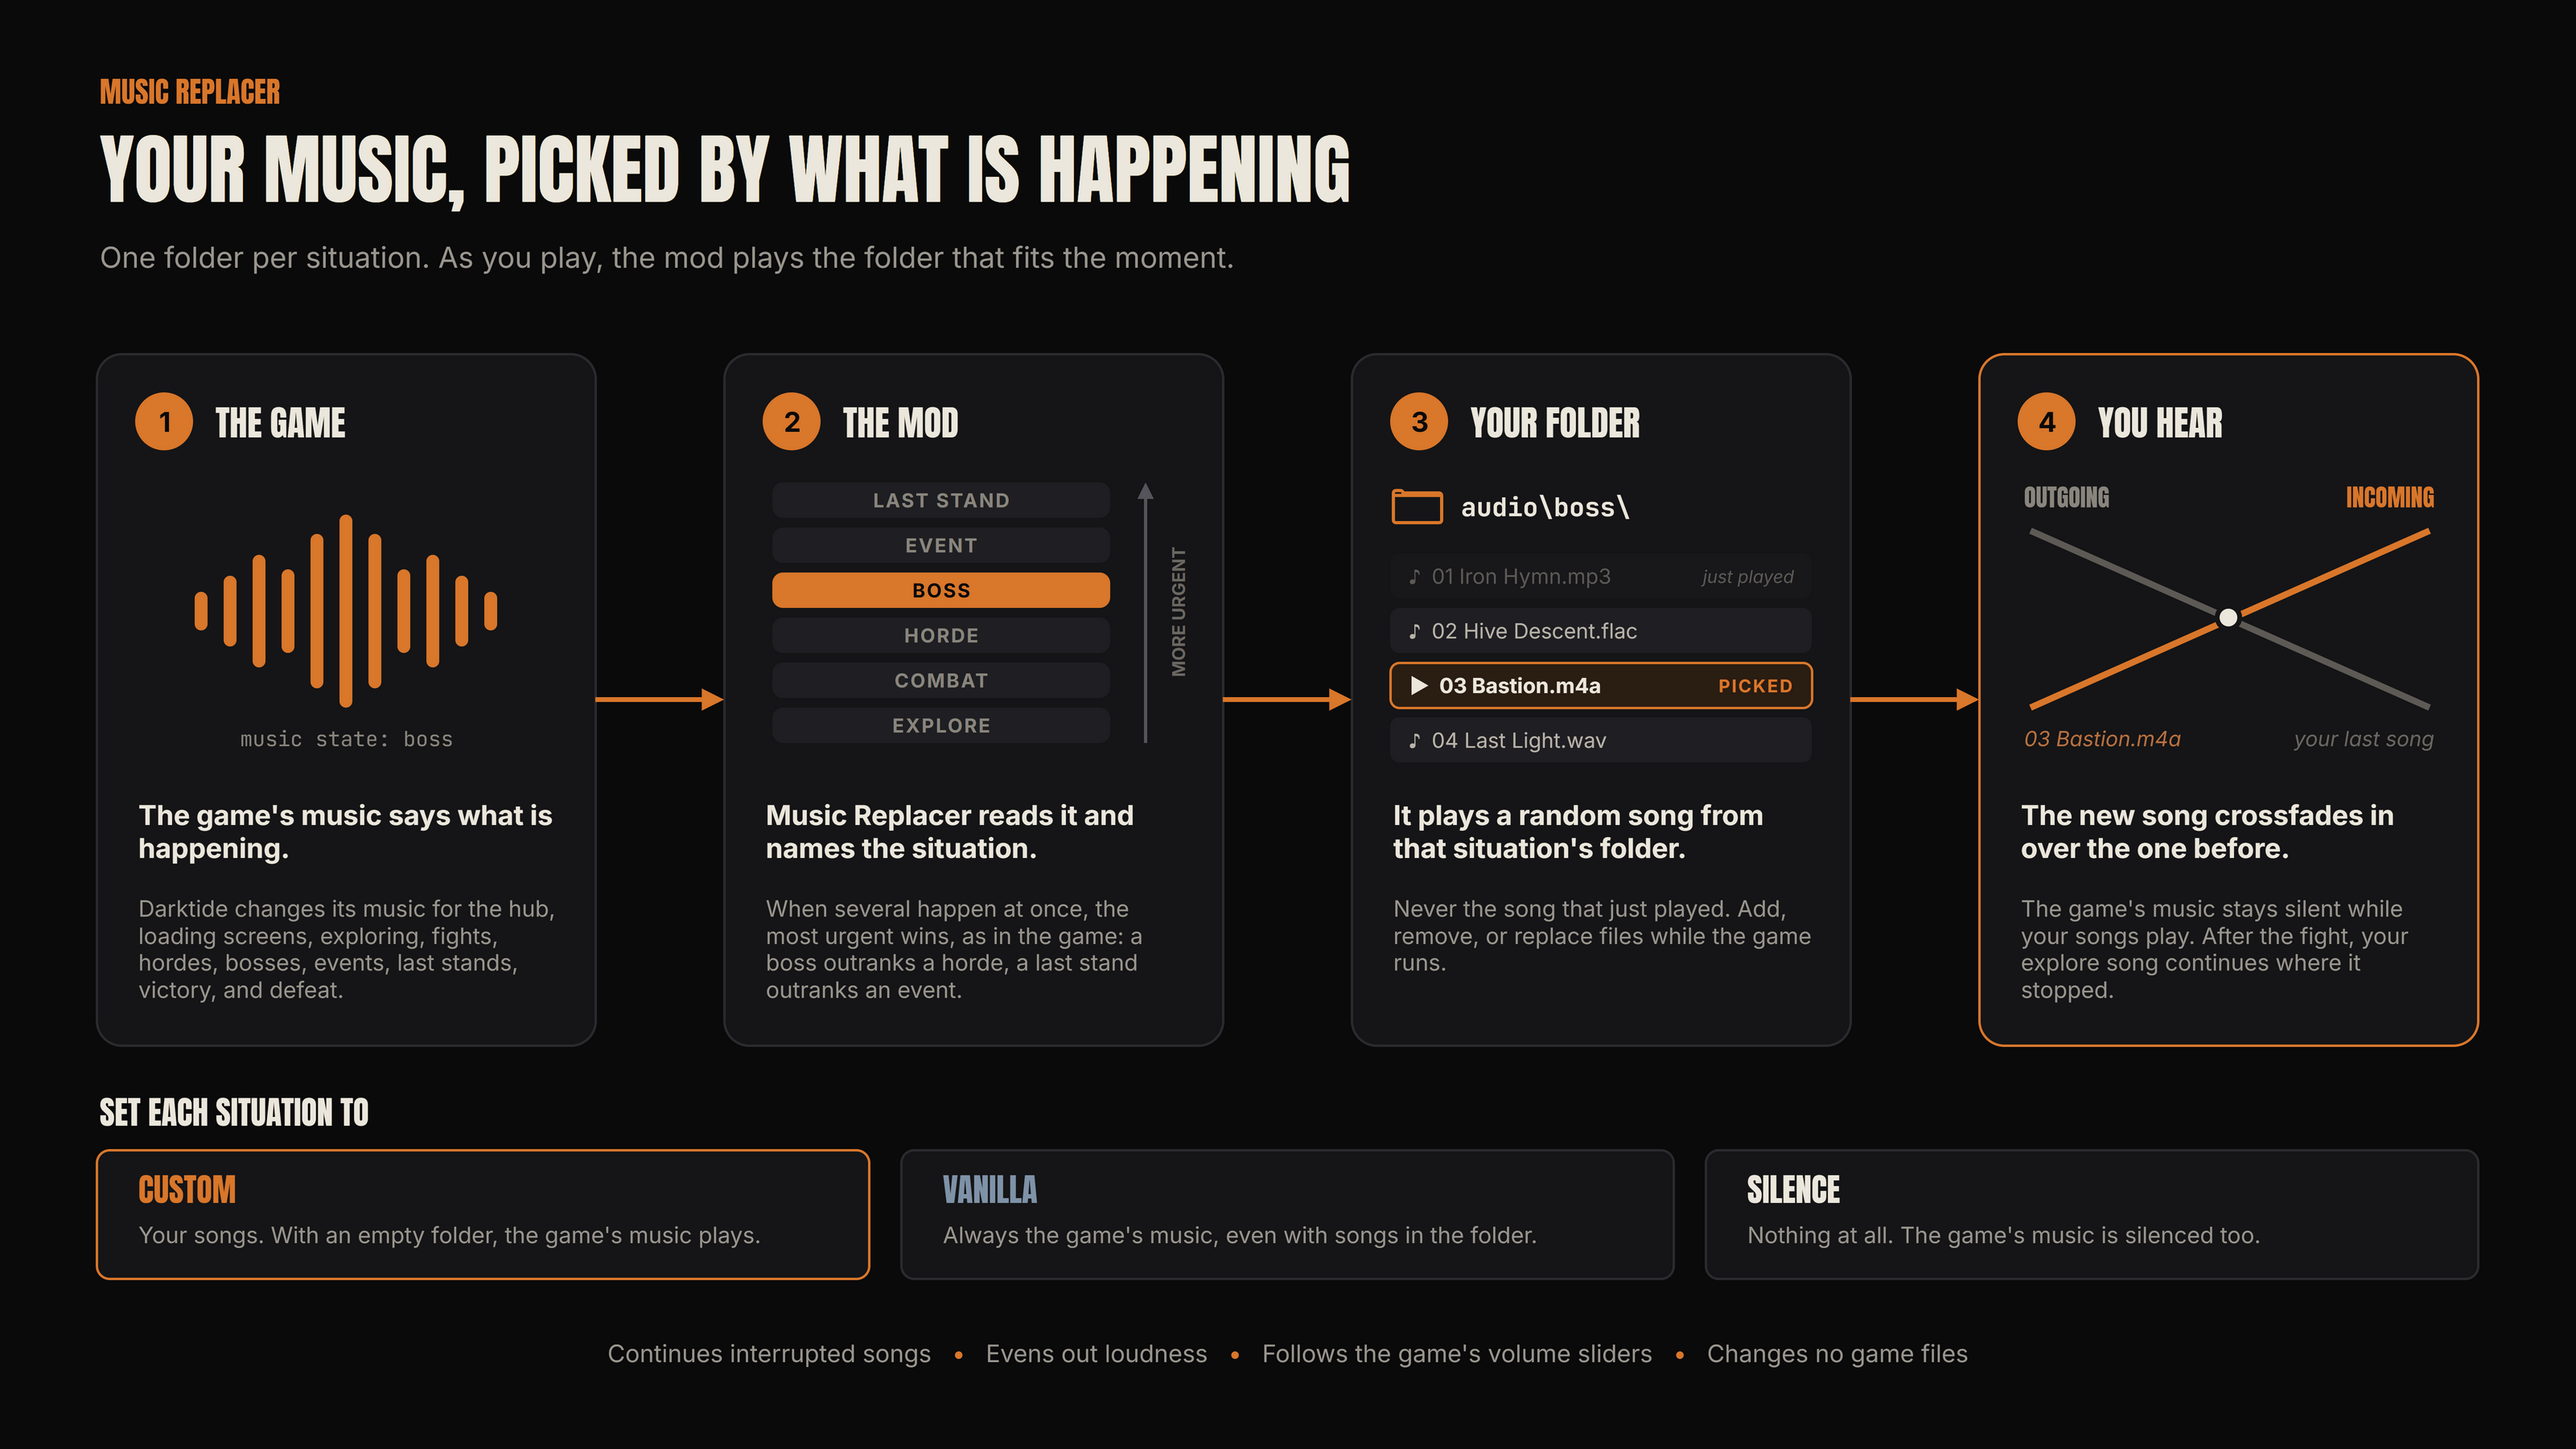
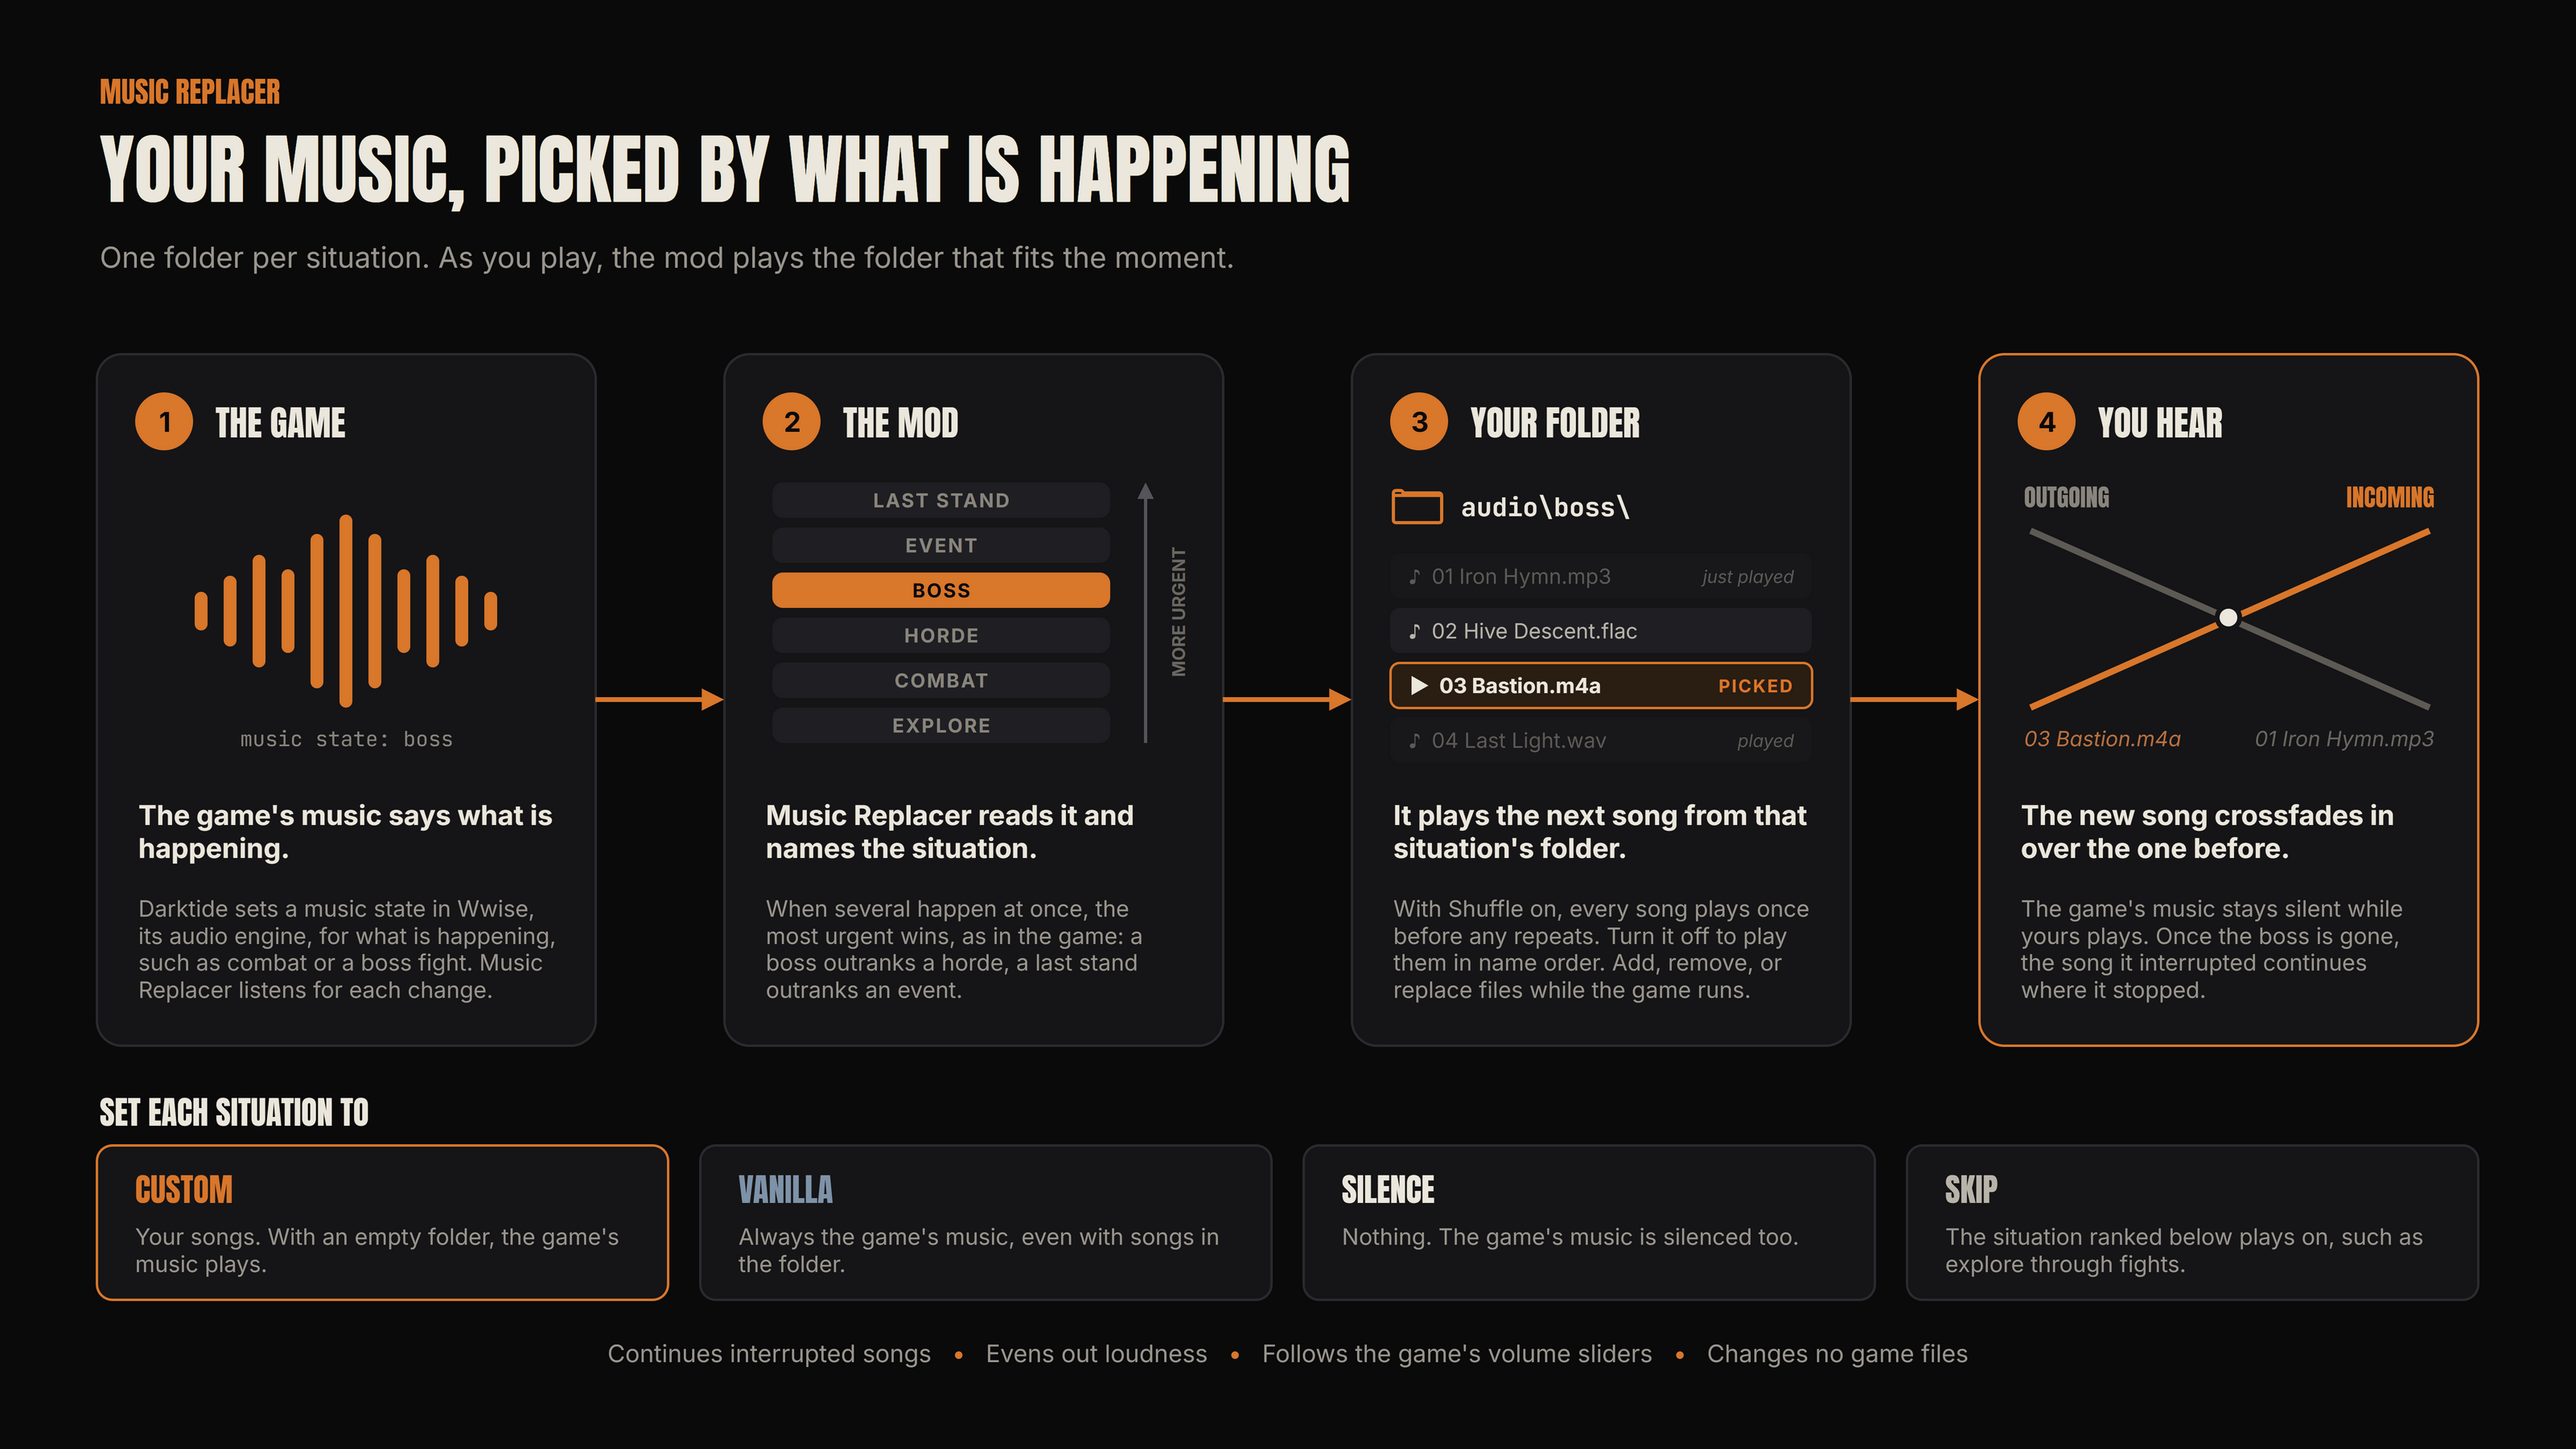
docs: update the How it works image and add images for the playback settings and keys
The How it works image now shows a folder playing each song once before any repeats, names the song that fades out, explains the game's music state through Wwise, and adds Skip to the situation choices. The settings reference shows a Playback settings image for Shuffle, Repeat Song, and Let Songs Finish, and a Playback controls image for the playback keys. The README's alt text for How it works matches the new image.

diff --git a/docs/settings.md b/docs/settings.md
@@ -11,6 +11,8 @@ Every setting of Music Replacer, with its default. The settings are in the in-ga
 
 ## Playback
 
+![Shuffle plays every song once before any repeats, or in name order when off. Repeat Song loops the song playing now with no gap. Let Songs Finish lets a song play to its end before explore takes over after a fight.](images/playback-settings.png)
+
 | Setting | Default | What it does |
 |---|---|---|
 | Shuffle | On | Plays each folder's songs in a random order, each once before any song repeats. A new round never starts with the song that ended the last one. A folder's round lasts until the game closes, so a short visit to a situation does not start it over. Turned off, each folder plays in the order File Explorer sorts it by name, where `2.mp3` comes before `10.mp3`, and starts over after its last song. A folder continues after the song it played last. A change takes effect at the next song. Turning Shuffle on also starts [Previous Song](#playback-controls) with no earlier songs, as a new situation does. |
@@ -22,6 +24,8 @@ Every setting of Music Replacer, with its default. The settings are in the in-ga
 ## Playback Controls
 
 Keys that control the song playing now, and the setting that goes with them. Every key starts unbound. DMF runs keybinds even while you type in chat, so a key that is not a letter, such as one on the numpad or an F-key, works best. Each press shows a short message, see [On-Screen Messages](#on-screen-messages). A press while none of your songs plays, as in a situation set to Vanilla or Silence or with an empty folder, says so and changes nothing.
+
+![Previous Song, Restart Song, and Next Song move through the folder. Pause / Resume pauses the song and resumes it where it stopped. Remove from Rotation asks on the first press and removes the song on the second.](images/playback-controls.png)
 
 | Setting | Default | What it does |
 |---|---|---|

diff --git a/README.md b/README.md
@@ -4,7 +4,7 @@ Music Replacer is a mod for Warhammer 40,000: Darktide that plays your own music
 
 Download it from [Nexus Mods](https://www.nexusmods.com/warhammer40kdarktide/mods/1464).
 
-![How Music Replacer works: the game's music state names the situation, the mod plays a random song from that situation's folder, and the new song crossfades in while the game's music stays silent.](docs/images/how-it-works.png)
+![How Music Replacer works: the game's music state names the situation, the mod plays the next song from that situation's folder, and the new song crossfades in while the game's music stays silent. Each situation can be set to Custom, Vanilla, Silence, or Skip.](docs/images/how-it-works.png)
 
 ## Quickstart
 
